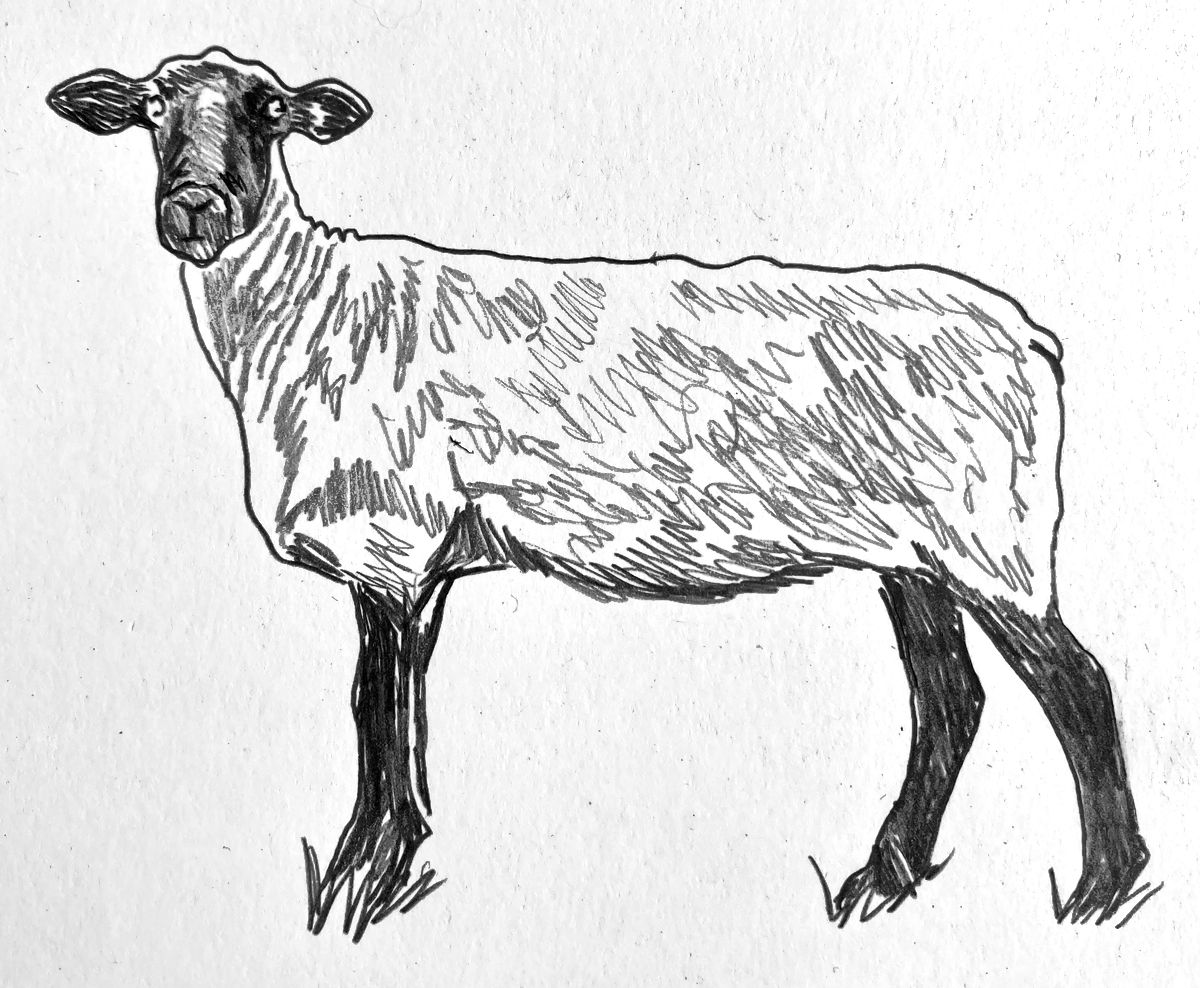
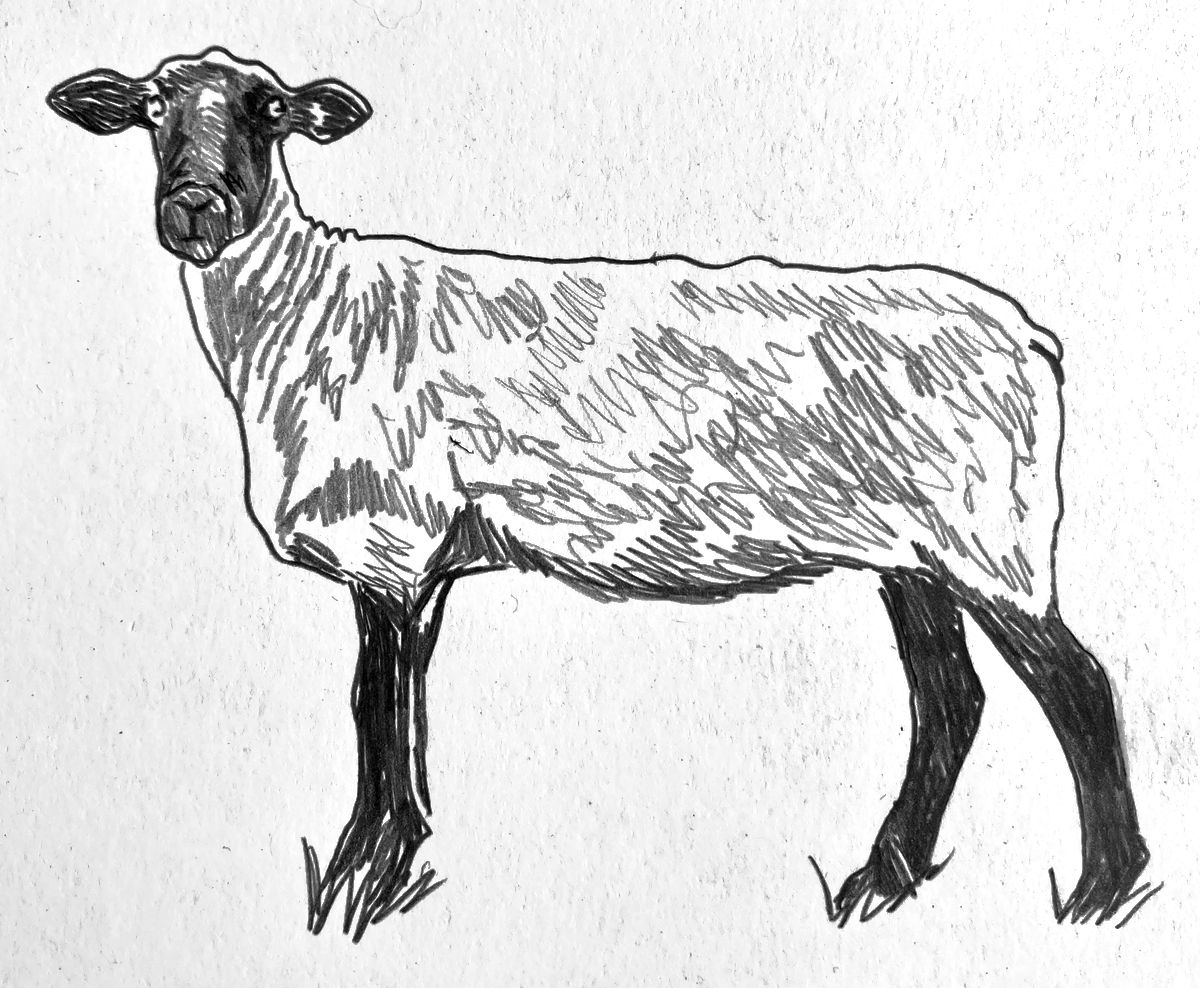
Adjust shading on images and add spacing to breed name text

diff --git a/client/src/App.css b/client/src/App.css
@@ -485,6 +485,8 @@ font-style: italic;
 
 .breed-detail-page h1 {
   margin-top: 1.5rem;
+  margin-bottom: 24px;
+  line-height: 1.4;   /* the inherited line-height is fixed at ~26px, too short for this large script */
 }
 
 .breed-info-card {
